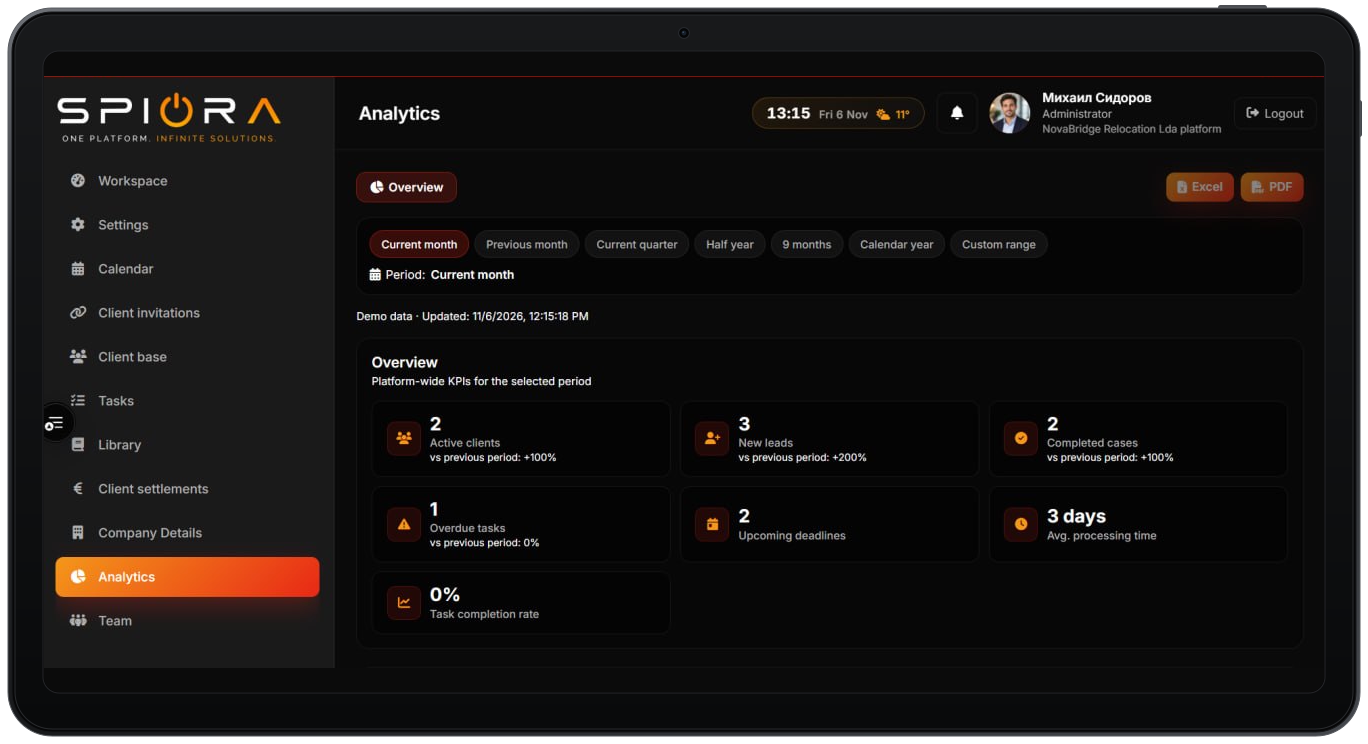
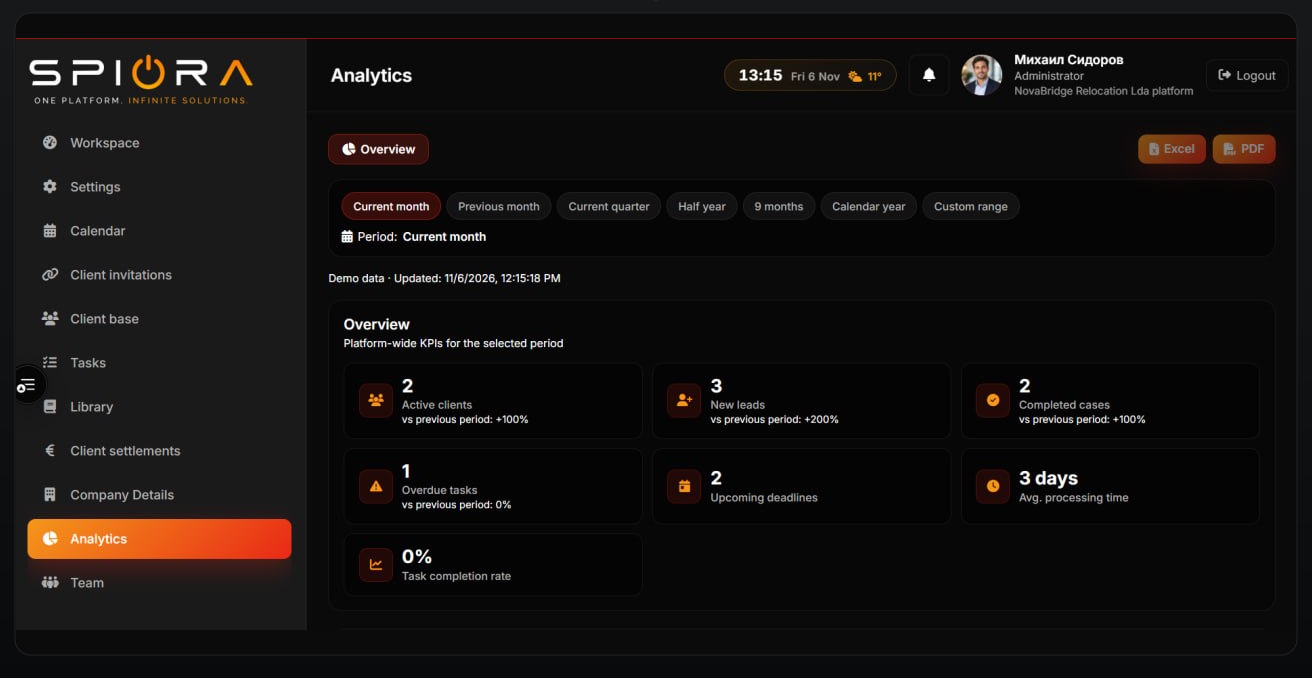
Crop the tablet frame off the nine module screenshots.

diff --git a/src/content/shots.ts b/src/content/shots.ts
@@ -15,15 +15,15 @@ export type ShotKey =
 export type ShotImage = { src: string; width: number; height: number };
 
 export const shots: Record<ShotKey, ShotImage> = {
-  workspace: { src: "/shots/team-workspace.png", width: 1024, height: 556 },
-  portal: { src: "/shots/client-portal.png", width: 1368, height: 744 },
-  tasks: { src: "/shots/team-tasks.png", width: 1368, height: 744 },
-  finance: { src: "/shots/finance.png", width: 1368, height: 744 },
-  team: { src: "/shots/team-members.png", width: 1368, height: 744 },
-  calendar: { src: "/shots/calendar.png", width: 1368, height: 744 },
-  analytics: { src: "/shots/analytics.png", width: 1368, height: 744 },
-  library: { src: "/shots/library.png", width: 1368, height: 744 },
-  ai: { src: "/shots/ai-workspace.png", width: 1368, height: 744 },
+  workspace: { src: "/shots/team-workspace.png", width: 980, height: 502 },
+  portal: { src: "/shots/client-portal.png", width: 1312, height: 678 },
+  tasks: { src: "/shots/team-tasks.png", width: 1312, height: 678 },
+  finance: { src: "/shots/finance.png", width: 1312, height: 678 },
+  team: { src: "/shots/team-members.png", width: 1312, height: 678 },
+  calendar: { src: "/shots/calendar.png", width: 1312, height: 678 },
+  analytics: { src: "/shots/analytics.png", width: 1312, height: 678 },
+  library: { src: "/shots/library.png", width: 1312, height: 678 },
+  ai: { src: "/shots/ai-workspace.png", width: 1312, height: 678 },
 };
 
 /** A section of a screenshot, in percent of its width and height. */
